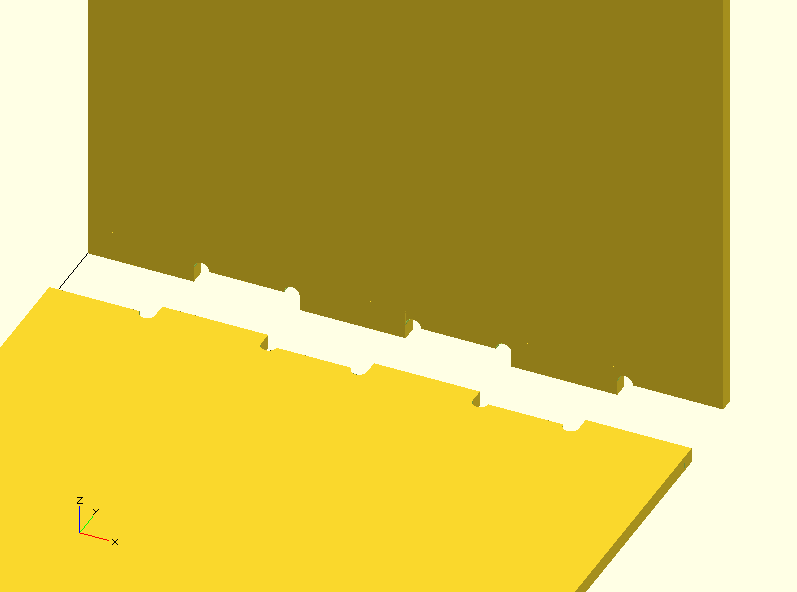
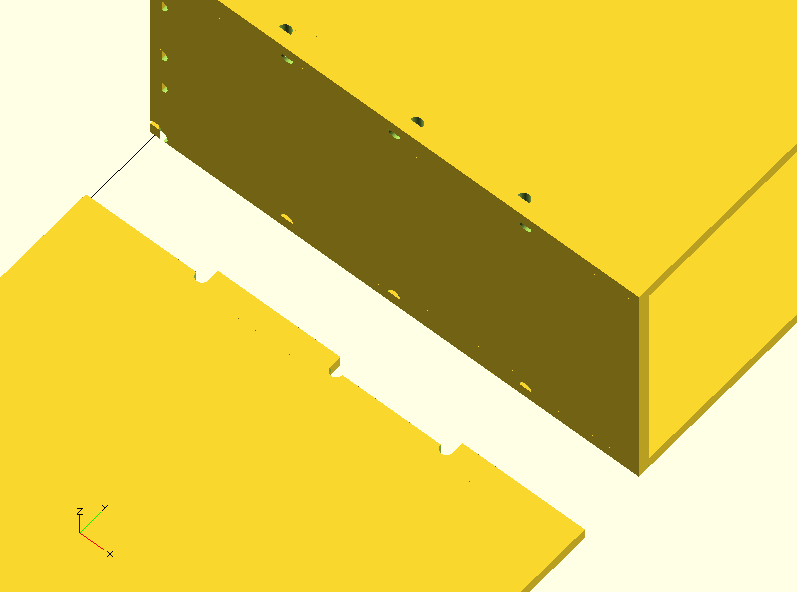
Updating milling_bit example

diff --git a/README.md b/README.md
@@ -156,21 +156,13 @@ x = 130;
 y = 100;
 lasercutoutSquare(thickness=thickness, x=x, y=y,
     finger_joints=[
-            [UP, 0, 3],
-            [DOWN, 1, 3]
+            [UP, 0, 2],
+            [DOWN, 1, 2]
         ],
         milling_bit=3.125
     );
 
-
-translate([0,y+20,thickness]) rotate([90,0,0]) 
-    lasercutoutSquare(thickness=thickness, x=x, y=y,
-        finger_joints=[
-                [UP, 1, 3],
-                [DOWN, 0, 3]
-            ],
-        milling_bit=3.125
-    );
+translate([0,y+20,thickness]) lasercutoutBox(thickness = thickness, x=x, y=y, z=x/2, sides=5, num_fingers=2, milling_bit=3.125);
 ```
 ![alt tag](https://raw.githubusercontent.com/bmsleight/lasercut/master/readme/example-012.png)
     
